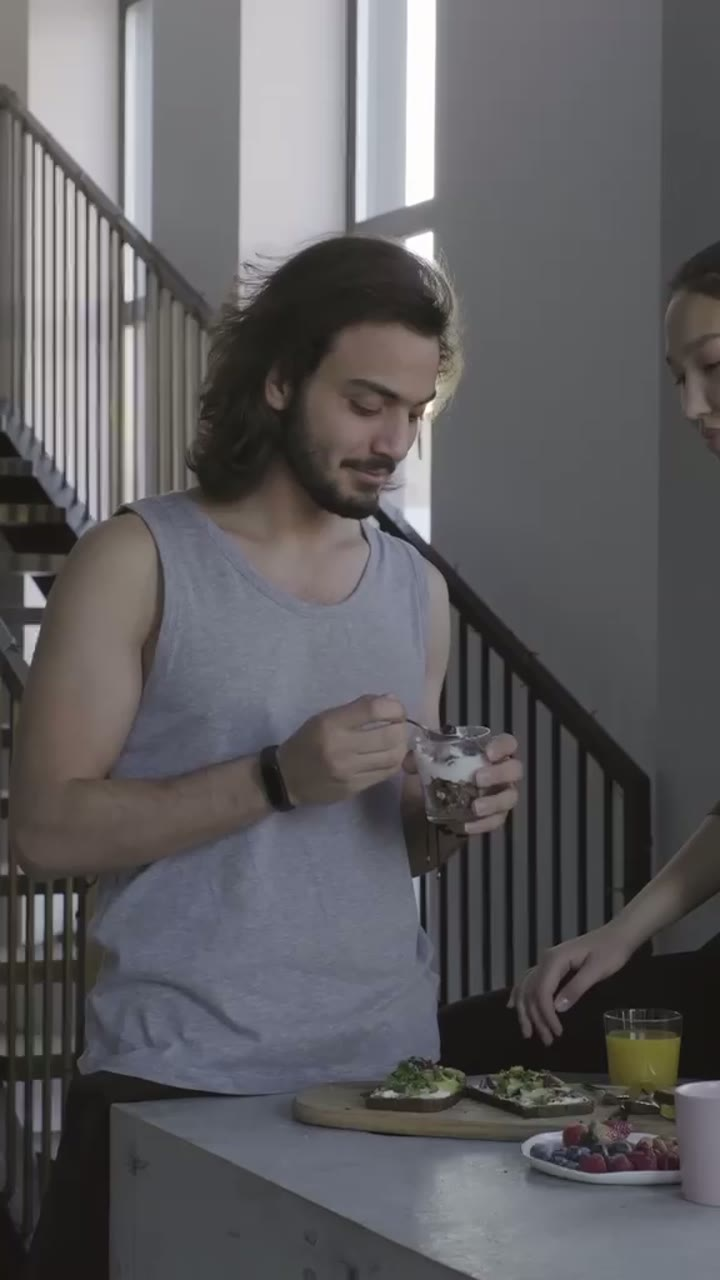
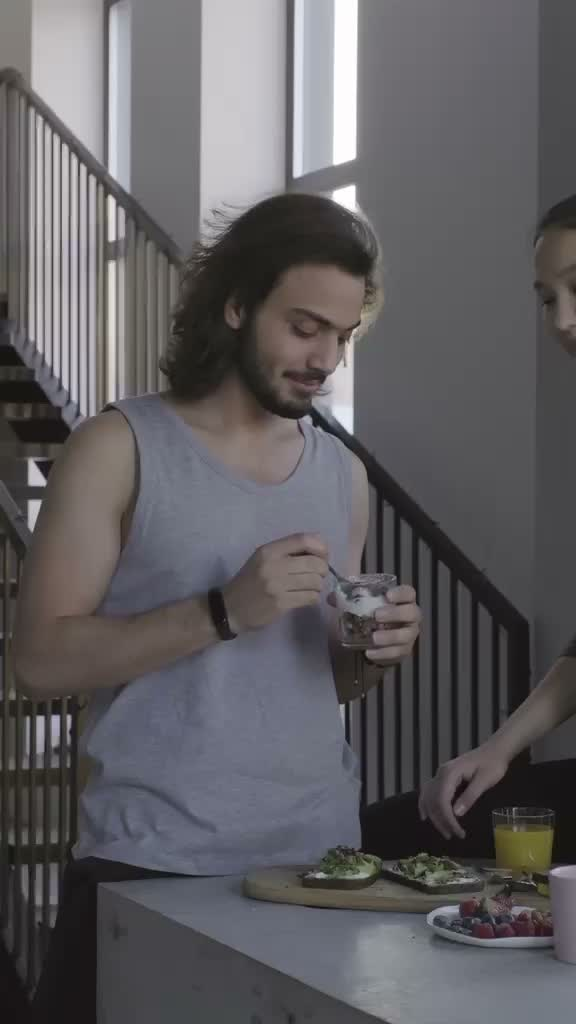
Update video titles and thumbnails

diff --git a/index.html b/index.html
@@ -808,17 +808,17 @@
      ===================================================================== */
   var VIDEOS = [
     /* ---- Reels (vertical) ---- */
-    { kind: 'reel', cat: 'social', title: 'Eko lens portrait reel', duration: '0:36', url: 'https://github.com/cheerysaaru/saarkesh-portfolio/releases/download/videos-v1/eko-portrait-reel.mp4', thumb: 'portfolio-videos/posters/eko-portrait-reel.jpg' },
-    { kind: 'reel', cat: 'social', title: 'STM video — final cut', duration: '1:05', url: 'https://github.com/cheerysaaru/saarkesh-portfolio/releases/download/videos-v1/stm-final.mp4', thumb: 'portfolio-videos/posters/stm-final.jpg' },
-    { kind: 'reel', cat: 'motion', title: 'AI search demo', duration: '0:19', url: 'https://github.com/cheerysaaru/saarkesh-portfolio/releases/download/videos-v1/ai-search-demo.mp4', thumb: 'portfolio-videos/posters/ai-search-demo.jpg' },
+    { kind: 'reel', cat: 'social', title: 'Eko Lens: Portrait Reel', duration: '0:36', url: 'https://github.com/cheerysaaru/saarkesh-portfolio/releases/download/videos-v1/eko-portrait-reel.mp4', thumb: 'portfolio-videos/posters/eko-portrait-reel.jpg' },
+    { kind: 'reel', cat: 'social', title: 'STM: Study Abroad Promo', duration: '1:05', url: 'https://github.com/cheerysaaru/saarkesh-portfolio/releases/download/videos-v1/stm-final.mp4', thumb: 'portfolio-videos/posters/stm-final.jpg' },
+    { kind: 'reel', cat: 'motion', title: 'AI Restaurant Search: App Demo', duration: '0:19', url: 'https://github.com/cheerysaaru/saarkesh-portfolio/releases/download/videos-v1/ai-search-demo.mp4', thumb: 'portfolio-videos/posters/ai-search-demo.jpg' },
     { kind: 'reel', cat: 'motion', title: 'Video 1022', duration: '0:21', url: 'https://github.com/cheerysaaru/saarkesh-portfolio/releases/download/videos-v1/1022.mp4', thumb: 'portfolio-videos/posters/1022.jpg' },
-    { kind: 'reel', cat: 'social', title: 'Final Out', duration: '1:20', url: 'https://github.com/cheerysaaru/saarkesh-portfolio/releases/download/videos-v1/final-out.mp4', thumb: 'portfolio-videos/posters/final-out.jpg' },
-    { kind: 'reel', cat: 'social', title: 'Reel take 02', duration: '1:01', url: 'https://github.com/cheerysaaru/saarkesh-portfolio/releases/download/videos-v1/reel-take-02.mp4', thumb: 'portfolio-videos/posters/reel-take-02.jpg' },
-    { kind: 'reel', cat: 'social', title: 'Reel take 03', duration: '0:38', url: 'https://github.com/cheerysaaru/saarkesh-portfolio/releases/download/videos-v1/reel-take-03.mp4', thumb: 'portfolio-videos/posters/reel-take-03.jpg' },
-    { kind: 'reel', cat: 'social', title: 'Reel take 04', duration: '1:19', url: 'https://github.com/cheerysaaru/saarkesh-portfolio/releases/download/videos-v1/reel-take-04.mp4', thumb: 'portfolio-videos/posters/reel-take-04.jpg' },
-    { kind: 'reel', cat: 'social', title: 'Reel take 05', duration: '0:51', url: 'https://github.com/cheerysaaru/saarkesh-portfolio/releases/download/videos-v1/reel-take-05.mp4', thumb: 'portfolio-videos/posters/reel-take-05.jpg' },
-    { kind: 'reel', cat: 'social', title: 'Memories — dark moments edit', duration: '0:40', url: 'https://github.com/cheerysaaru/saarkesh-portfolio/releases/download/videos-v1/memories-reel.mp4', thumb: 'portfolio-videos/posters/memories-reel.jpg' },
-    { kind: 'reel', cat: 'social', title: 'Creatine Q&A — Dr Dumindu', duration: '0:41', url: 'https://github.com/cheerysaaru/saarkesh-portfolio/releases/download/videos-v1/creatine-qa.mp4', thumb: 'portfolio-videos/posters/creatine-qa.jpg' },
+    { kind: 'reel', cat: 'social', title: 'Doctor Intro: Join Me for This Game', duration: '1:20', url: 'https://github.com/cheerysaaru/saarkesh-portfolio/releases/download/videos-v1/final-out.mp4', thumb: 'portfolio-videos/posters/final-out.jpg' },
+    { kind: 'reel', cat: 'social', title: 'Colour-Graded Lifestyle Reel', duration: '1:01', url: 'https://github.com/cheerysaaru/saarkesh-portfolio/releases/download/videos-v1/reel-take-02.mp4', thumb: 'portfolio-videos/posters/reel-take-02.jpg' },
+    { kind: 'reel', cat: 'social', title: 'Creator Talking Reel: Captioned Edit', duration: '0:38', url: 'https://github.com/cheerysaaru/saarkesh-portfolio/releases/download/videos-v1/reel-take-03.mp4', thumb: 'portfolio-videos/posters/reel-take-03.jpg' },
+    { kind: 'reel', cat: 'social', title: 'Kitchen Lifestyle Reel', duration: '1:19', url: 'https://github.com/cheerysaaru/saarkesh-portfolio/releases/download/videos-v1/reel-take-04.mp4', thumb: 'portfolio-videos/posters/reel-take-04.jpg' },
+    { kind: 'reel', cat: 'social', title: 'NMX: Lactose Myth Explainer', duration: '0:51', url: 'https://github.com/cheerysaaru/saarkesh-portfolio/releases/download/videos-v1/reel-take-05.mp4', thumb: 'portfolio-videos/posters/reel-take-05.jpg' },
+    { kind: 'reel', cat: 'social', title: 'Memories: Cinematic Edit', duration: '0:40', url: 'https://github.com/cheerysaaru/saarkesh-portfolio/releases/download/videos-v1/memories-reel.mp4', thumb: 'portfolio-videos/posters/memories-reel.jpg' },
+    { kind: 'reel', cat: 'social', title: 'NMX: Creatine Q&A with Dr Dumindu', duration: '0:41', url: 'https://github.com/cheerysaaru/saarkesh-portfolio/releases/download/videos-v1/creatine-qa.mp4', thumb: 'portfolio-videos/posters/creatine-qa.jpg' },
 
     /* ---- Long form (landscape) ---- */
     { kind: 'film', cat: 'social', title: 'Interact Club — officials board 2023/24', duration: '4:55', url: 'https://github.com/cheerysaaru/saarkesh-portfolio/releases/download/videos-v1/interact-board-2023-24.mp4', thumb: 'portfolio-videos/posters/interact-board-2023-24.jpg' }
